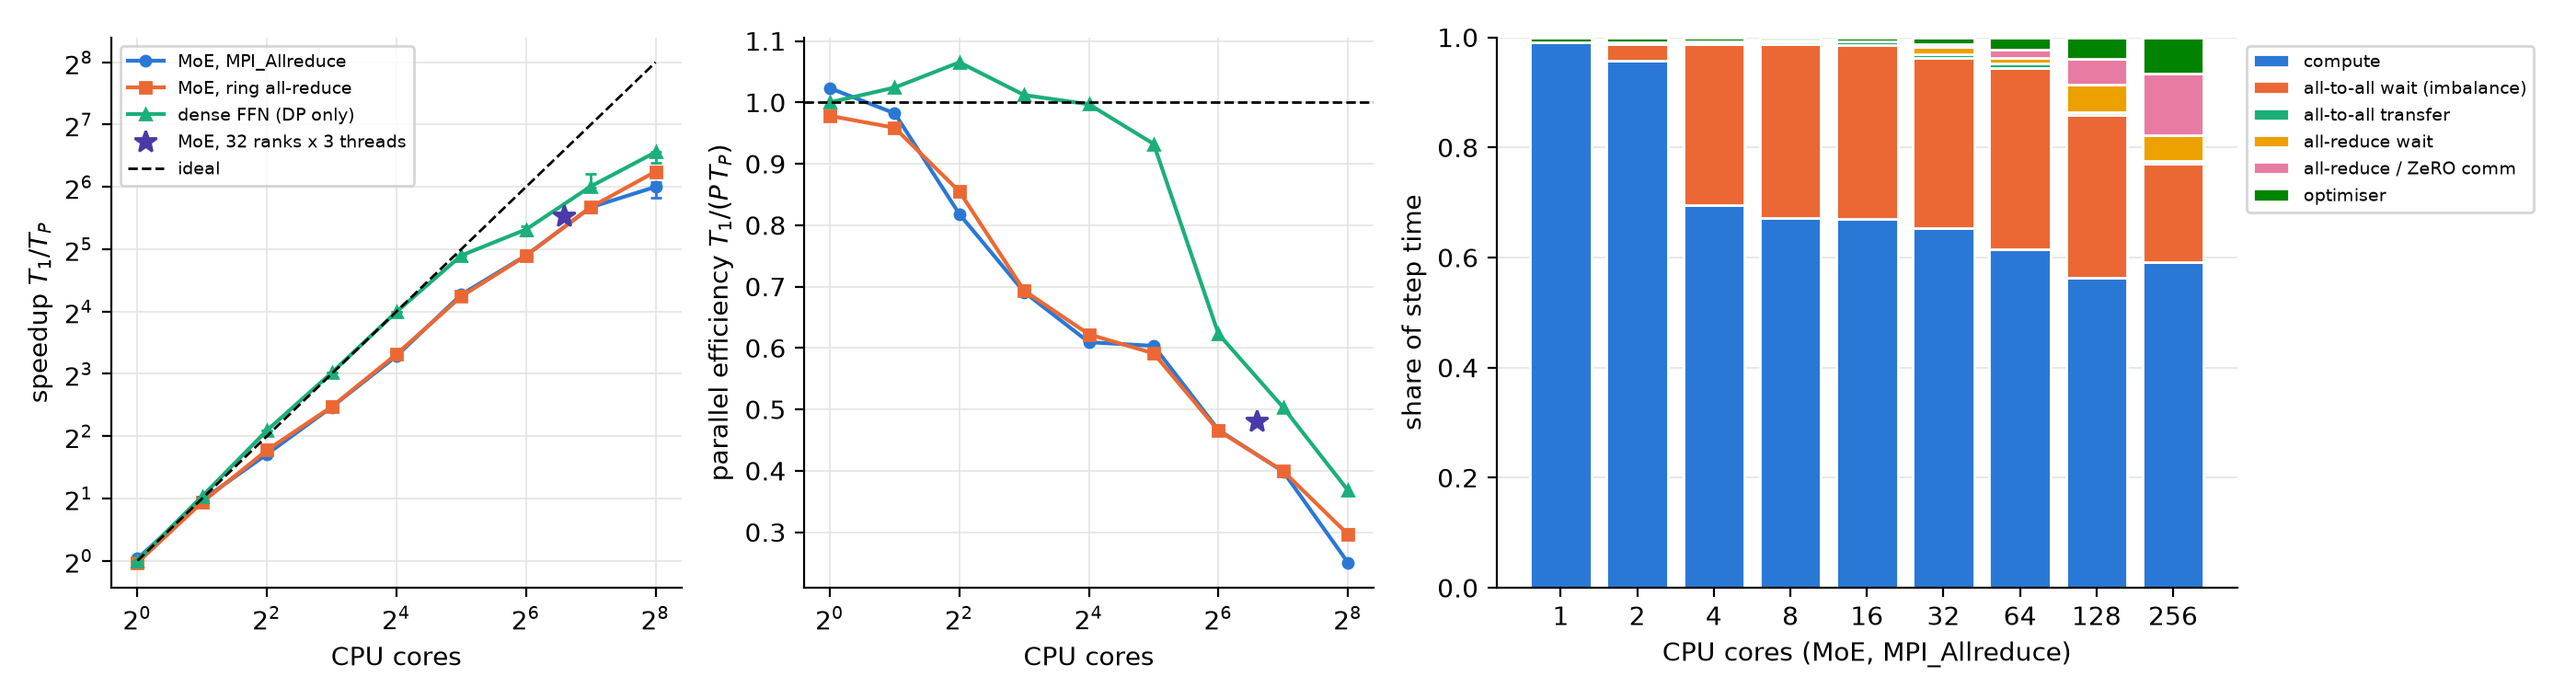
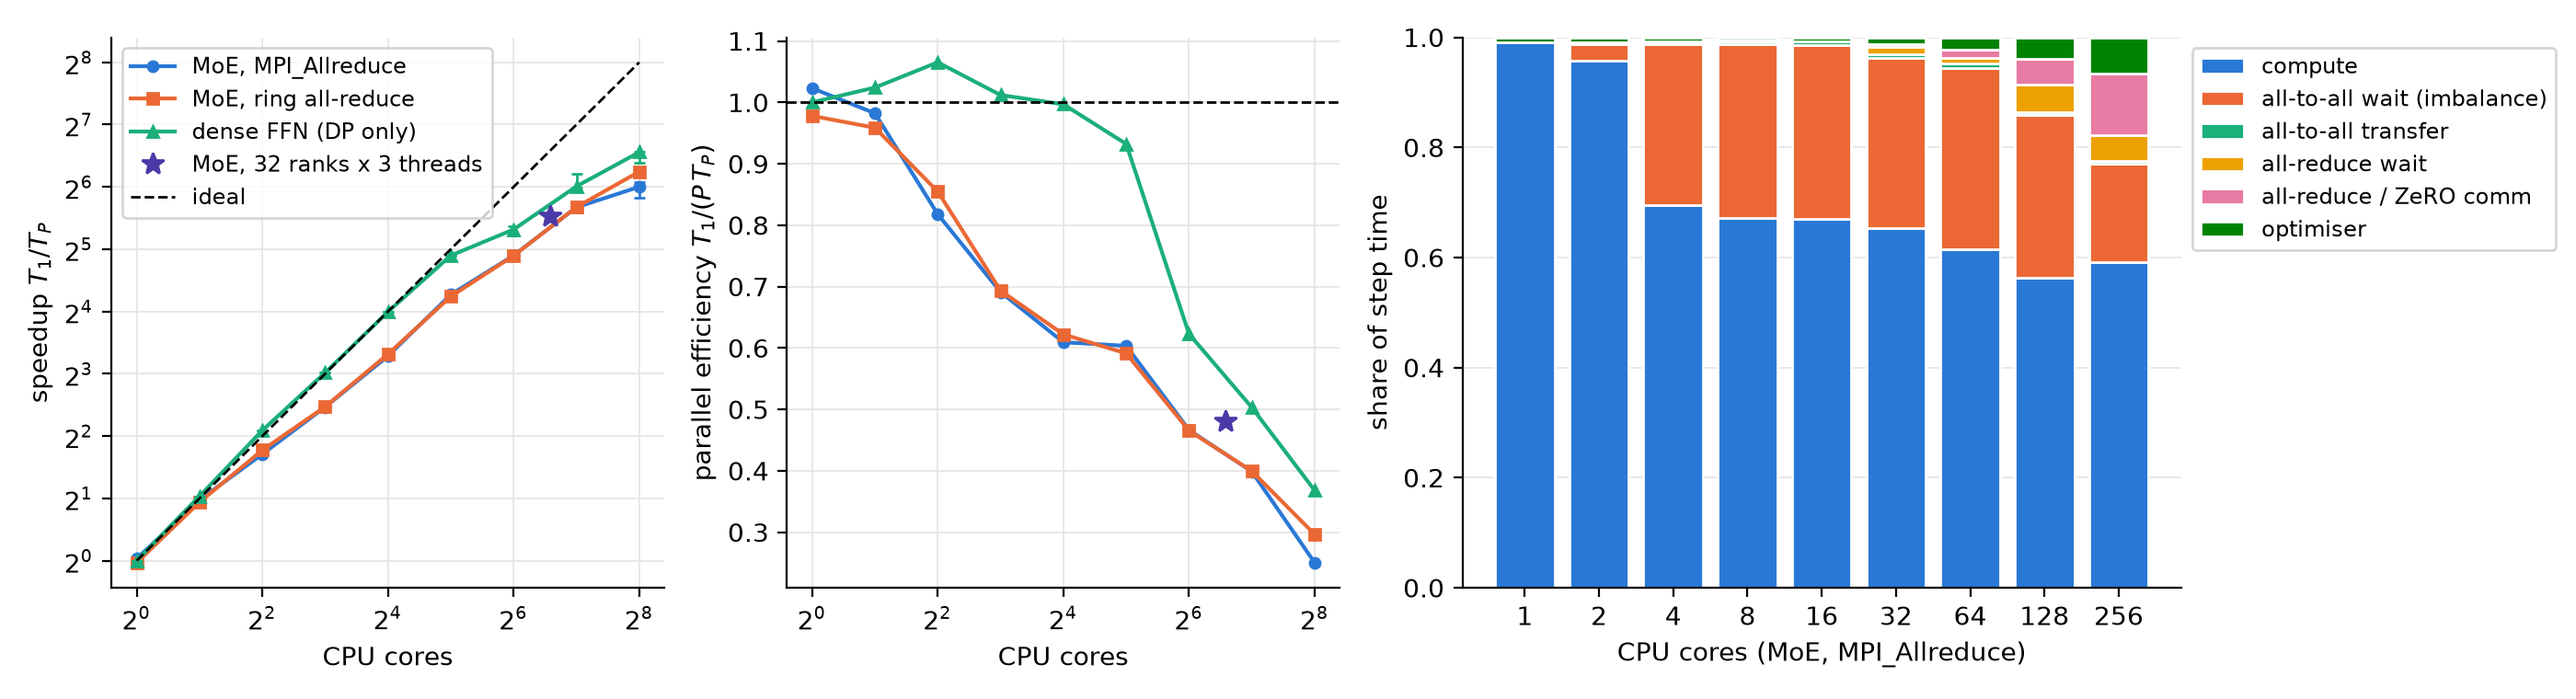
Larger legends in the scaling, communication and load-balance figures

diff --git a/scripts/plot.py b/scripts/plot.py
@@ -177,7 +177,7 @@ def fig_e3(tables: pathlib.Path, out: pathlib.Path, plat: str = "vanda") -> None
     ax1.set_yscale("log", base=2)
     ax1.set_ylabel(r"speedup $T_1 / T_P$")
     ax2.set_ylabel(r"parallel efficiency $T_1 / (P\,T_P)$")
-    ax1.legend(fontsize=7)
+    ax1.legend(fontsize=8.5)
     # phase shares of the MoE (MPI_Allreduce) step
     sel = series[0][1] if series else []
     if sel:
@@ -190,7 +190,7 @@ def fig_e3(tables: pathlib.Path, out: pathlib.Path, plat: str = "vanda") -> None
         ax3.set_xlabel("CPU cores (MoE, MPI_Allreduce)")
         ax3.set_ylabel("share of step time")
         ax3.set_ylim(0, 1)
-        ax3.legend(fontsize=7, loc="upper left", bbox_to_anchor=(1.0, 1.0))
+        ax3.legend(fontsize=8.5, loc="upper left", bbox_to_anchor=(1.0, 1.0))
         style(ax3)
     fig.tight_layout()
     fig.savefig(out / f"e3_strong_{plat}.png", dpi=200)
@@ -251,7 +251,7 @@ def fig_e5(tables: pathlib.Path, out: pathlib.Path, plat: str = "vanda") -> None
         ax.set_xlabel("message size (bytes)")
         ax.set_ylabel("time per all-reduce (s)")
         ax.set_title(title, fontsize=9)
-        ax.legend(fontsize=7)
+        ax.legend(fontsize=8.5)
         style(ax)
     a2a = [r for r in rows if r.get("kind", "").startswith("ep_")]
     for i, (variant, label) in enumerate((("mpi", "MPI_Alltoallv"), ("pairwise", "pairwise Isend/Irecv"))):
@@ -263,7 +263,7 @@ def fig_e5(tables: pathlib.Path, out: pathlib.Path, plat: str = "vanda") -> None
     axes[2].set_yscale("log")
     axes[2].set_xlabel("ranks (E3 problem)")
     axes[2].set_ylabel("token exchange per step, excl. waiting (s)")
-    axes[2].legend(fontsize=7)
+    axes[2].legend(fontsize=8.5)
     style(axes[2])
     fig.tight_layout()
     fig.savefig(out / f"e5_comm_{plat}.png", dpi=200)
@@ -290,7 +290,7 @@ def fig_e6(tables: pathlib.Path, out: pathlib.Path, plat: str = "atlas") -> None
     axes[0].text(600, 7.75, "maximum E/k = 8", fontsize=7, ha="center", va="top")
     axes[0].set_xlabel("training step (B = 256)")
     axes[0].set_ylabel("max / mean tokens per expert")
-    axes[0].legend(fontsize=7)
+    axes[0].legend(fontsize=8.5)
     for i, cf in enumerate(["1.0", "1.25", "2.0"]):
         vals = []
         for aux in auxes:
@@ -301,7 +301,7 @@ def fig_e6(tables: pathlib.Path, out: pathlib.Path, plat: str = "atlas") -> None
     axes[1].set_xticks(range(3))
     axes[1].set_xticklabels([f"aux {a}" for a in auxes])
     axes[1].set_ylabel("share of assignments dropped (k = 2)")
-    axes[1].legend(fontsize=7)
+    axes[1].legend(fontsize=8.5)
     for i, aux in enumerate(auxes):
         acc = [float(r["test_acc"]) * 100 for r in rows if key(r["log"])[:3] == (aux, "1.25", "2")]
         axes[2].plot([i] * len(acc), acc, marker=MARKERS[i], color=SERIES[i], ls="none", ms=6)
